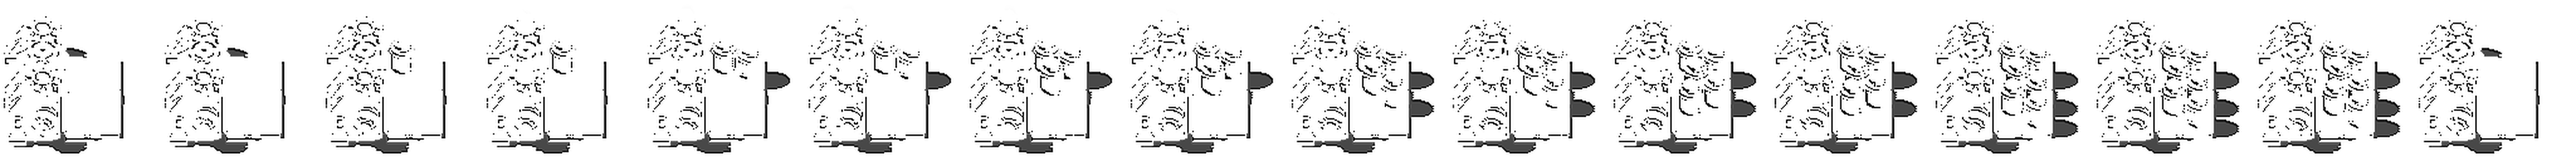
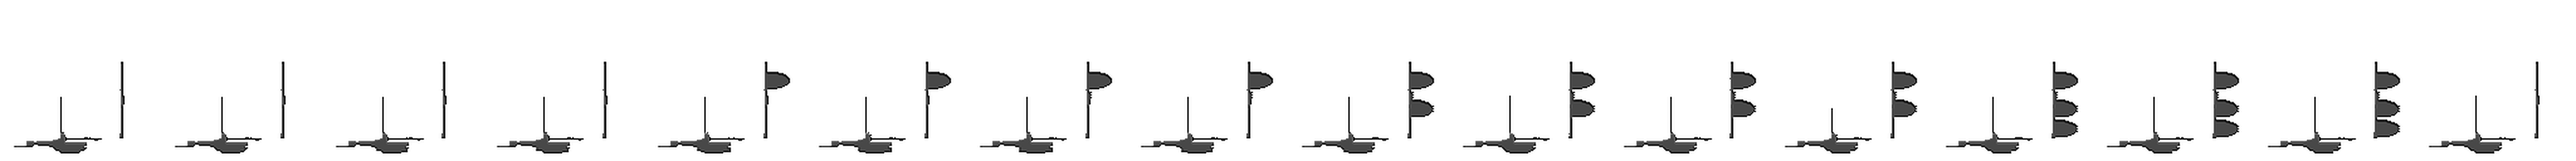
Fix component shadow artifacts and mutual cell shading

diff --git a/docs/tools/build_shared_factories.py b/docs/tools/build_shared_factories.py
@@ -155,6 +155,7 @@ def build():
         for n in range(count):
             f=original.crop((128*n,0,128*(n+1),128))
             f.putdata([(0,0,0,a) if r==g==b==0 else (0,0,0,0) for r,g,b,a in f.getdata()])
+            if name=='comp':f=component_ground_shadow(f)
             sheet.paste(f.resize((256,256),Image.Resampling.LANCZOS),(256*n,0))
         sheet.save(OUT/f'fab-{name}-shadow.png')
     # Generated palette table: data-stage tints and authoring previews use one input.
@@ -228,8 +229,80 @@ def build_component_right():
         frame=Image.new('RGBA',source.size)
         count=0 if n==15 else min(n//2,6)
         for position in positions[:count]:frame.alpha_composite(cell,position)
-        sheet.paste(module(frame),(92*n,0))
+        shaded=component_cast_shadows(frame,platform,positions[:count],crop,cell)
+        sheet.paste(shaded,(92*n,0))
     sheet.save(OUT/'factory-comp-cells.png')
+
+
+def component_ground_shadow(frame):
+    """Keep the two connected ground shadows, not black details inside old cells."""
+    pixels=frame.load()
+    remaining={(x,y) for y in range(128) for x in range(128) if pixels[x,y][3]}
+    groups=[]
+    while remaining:
+        seed=remaining.pop();group={seed};pending=[seed]
+        while pending:
+            x,y=pending.pop()
+            for point in [(x-1,y),(x+1,y),(x,y-1),(x,y+1)]:
+                if point in remaining:
+                    remaining.remove(point);group.add(point);pending.append(point)
+        groups.append(group)
+    keep=set().union(*sorted(groups,key=len,reverse=True)[:2])
+    for y in range(128):
+        for x in range(128):
+            if (x,y) not in keep:pixels[x,y]=(0,0,0,0)
+    return frame
+
+
+def component_cast_shadows(cells,platform,positions,crop,cell):
+    """Bake directional occlusion onto receiving cells/floor, never empty space.
+
+    Approximate the accepted cells as upright cylinders in an orthographic scene.
+    Depth projects at 1/2 scale; screen y also includes the cell's height. Rays
+    toward the upper-left light test only material above the receiving surface,
+    so equal-height caps cannot cast a pasted silhouette across each other.
+    """
+    size=(184,432)  # twice runtime resolution for soft, stable shadow boundaries
+    visible=cells.crop(crop).resize(size,Image.Resampling.LANCZOS)
+    if not positions:return visible.resize((92,216),Image.Resampling.LANCZOS)
+    floor=platform.crop(crop).resize(size,Image.Resampling.LANCZOS)
+    receiving=ImageChops.lighter(visible.getchannel('A'),floor.getchannel('A'))
+    shade=Image.new('L',size);sp=shade.load();alpha=cell.getchannel('A').load();rp=receiving.load()
+    radius,height=96,195
+    centers=[(x+100,(y+260)*2) for x,y in positions]
+    light_x,light_depth=-1.2,-1.0
+    a=light_x**2+light_depth**2
+    for v in range(size[1]):
+        y=crop[1]+(v+.5)*(crop[3]-crop[1])/size[1]
+        for u in range(size[0]):
+            if rp[u,v]<128:continue
+            x=crop[0]+(u+.5)*(crop[2]-crop[0])/size[0]
+            owner=None;z=0
+            # Frontmost opaque cell owns this pixel; cylindrical depth gives its
+            # surface height. The floor is the receiver when no cell is present.
+            for i,(px,py) in enumerate(positions):
+                if px<=x<px+201 and py<=y<py+308:
+                    # Sample the shared complete cell before overlap/compositing.
+                    sx=int(x-px);sy=int(y-py)
+                    if alpha[sx,sy]>128:
+                        owner=i
+                        front=.5*math.sqrt(max(0,radius**2-(x-px-100)**2))
+                        z=max(0,min(height,py+260+front-y))
+            depth=(y+z)*2
+            for i,(cx,cy) in enumerate(centers):
+                if i==owner:continue
+                dx,dy=x-cx,depth-cy
+                b=2*(dx*light_x+dy*light_depth)
+                discriminant=b*b-4*a*(dx*dx+dy*dy-radius**2)
+                if discriminant<0:continue
+                root=math.sqrt(discriminant)
+                enter=(-b-root)/(2*a);leave=(-b+root)/(2*a)
+                if leave>1 and max(enter,1)<height-z:
+                    sp[u,v]=105;break
+    shade=ImageChops.multiply(shade.filter(ImageFilter.GaussianBlur(.8)),receiving)
+    overlay=Image.new('RGBA',size,(0,0,0,0));overlay.putalpha(shade)
+    visible.alpha_composite(overlay)
+    return visible.resize((92,216),Image.Resampling.LANCZOS)
 
 
 def render(name,n,shadow=True, palette=None):
